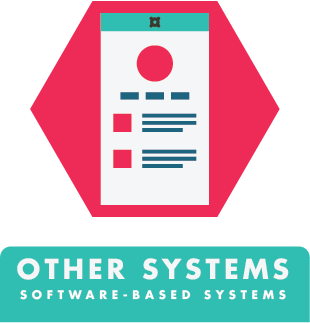
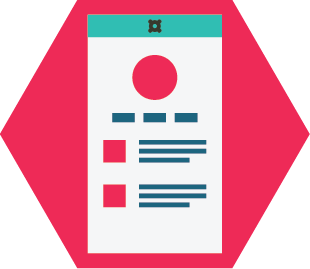
Added info about other systems in Services

diff --git a/services.html b/services.html
@@ -25,7 +25,7 @@
 			<div id="head_content" style="background-color: #F3F3F3;">
 				<div id="head_content_div" class="content_div">
 					<h2 class="flex-head">OUR SERVICES</h2>
-					<h3 class="flex-head">Web Development</h3>
+					<h3 class="flex-head" style="color: #37392E;">Web Development</h3>
 					<div id="services" class="flex-container">
 						<img src="images/Services_webdev.png">
 						<div class="details">
@@ -45,7 +45,7 @@
 			</div>
 		</header>
 		<main id="main">
-			<div class="content_div" id="what_we_offer">
+			<div class="content_div">
 				<h2>Add-ons</h2>
 				<div id="add-ons" class="flex-container">
 					<div class="service">
@@ -96,9 +96,33 @@
 							<p class="description">Allows for the selling of goods and services on the site.</p>
 						</div>
 					</div>
+				</div>
+			</div>
+			<div class="content_div" id="other-systems">
+				<h3 class="flex-head">Other Software-Based Systems</h3>
+				<div class="flex-container">
+					<img src="images/Services_others.png">
+					<div class="details">
+							<div class="service">
+								<h2>Member Tracking System</h2>
+								<p class="price">P250.00/hr, 30-hr minimum</p>
+								<p class="description">A system for helping orgs keep track of their members. The system is customized to the needs of the org. Possible uses: point system, family system, etc.</p>
+							</div>
+							<div class="service">
+								<h2>Registration System</h2>
+								<p class="price">P3,000.00</p>
+								<p class="description">A system for simplifying member registration during events. Can be integrated with the member tracking system.</p>
+							</div>
+							<div class="service">
+								<h2>Custom System</h2>
+								<p class="price">P320.00/hr, 30-hr minimum</p>
+								<p class="description">A fully-customized system catered to any purpose in any of the following platforms: iOS, Android, Java, Python, C++, and more.</p>
+							</div>
+						</div>
+				</div>
 			</div>
 			<div class="content_div" id="showcase">
-				<h3 class="flex-head" style="text-align:left; padding-left:10vw;">Showcase</h3>
+				<h3 class="flex-head">Showcase</h3>
 				<div id="client-sites" class="flex-container">
 					<div class="flex-container-column">
 						<a target="_blank" href="http://heights-ateneo.org/">

diff --git a/css/style.css b/css/style.css
@@ -394,7 +394,7 @@ textarea {
  * ---------------
  *
  */
- #services {
+ #services, #other-systems .flex-container {
  	align-items: flex-start;
  }
 
@@ -439,6 +439,29 @@ textarea {
 
 #add-ons .service .feature {
 	margin-left: 30px;
+}
+
+#other-systems {
+	background-color: #37392E;
+}
+
+#other-systems .flex-container {
+	flex-flow: row-reverse;
+}
+
+#other-systems .flex-head,
+#other-systems .service {
+	color: #F3F3F3;
+}
+
+#other-systems .details {
+	text-align: right;
+	margin-right: 2em;
+	margin-left: 0;
+}
+
+#other-systems h2 {
+	color: #2EC4B6;
 }
 
 #showcase {
